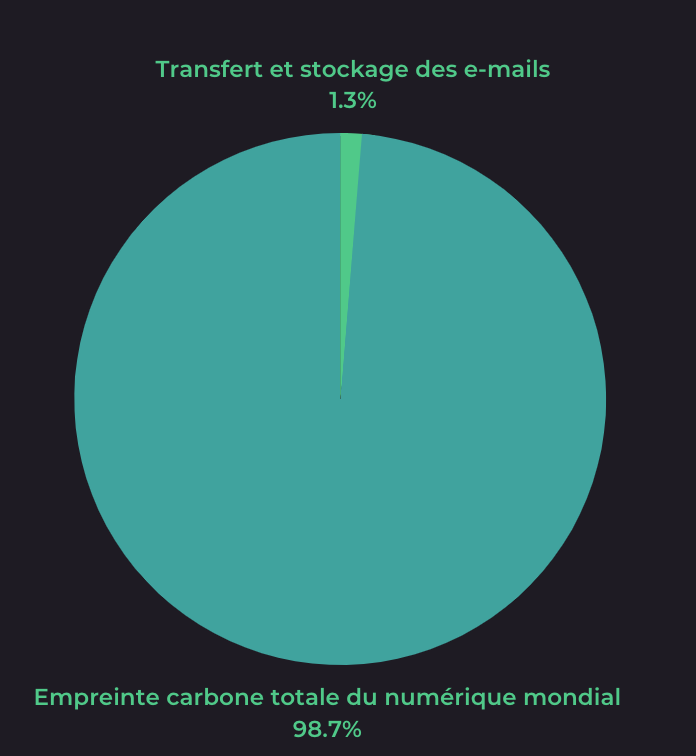
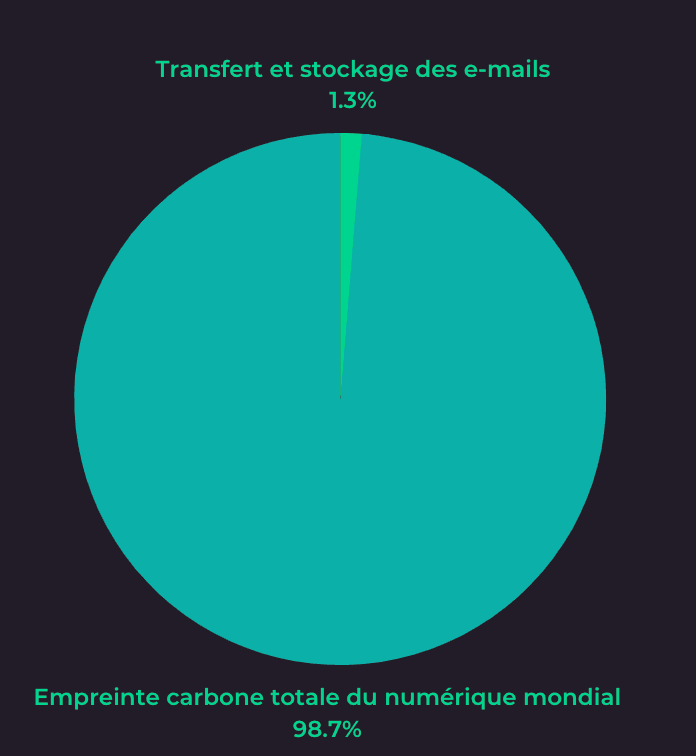
feat: reduce some image disk space (reduce color palette, reduce dimension)

diff --git a/_drafts/2022-11-09-signature-mail.md b/_drafts/2022-11-09-signature-mail.md
@@ -101,7 +101,7 @@ L’e-mail est également un excellent exemple de l'effet de rebond, dans lequel
 
 D’ailleurs selon [Science Focus](https://www.sciencefocus.com/planet-earth/the-thought-experiment-what-is-the-carbon-footprint-of-an-email/#:~:text=Sending%2065%20emails%20is%20roughly,emails%20they%20send%20and%20receive.&text=Globally%2C%20the%20world), l'envoi d'un e-mail utilise environ 1,7 % de l'énergie nécessaire pour livrer une lettre papier, ce qui prouve que le courrier électronique est certainement une option plus écologique que le courrier postal. Étant donné que seulement 5 % du réseau électrique mondial provient de sources renouvelables, cela signifie que la plupart de nos courriels sont alimentés par des combustibles fossiles.
 
-![Empreinte carbonne : lettre vs email vs sms ](/images/poids-email/lettre-email-sms.jpg)
+![Empreinte carbonne : lettre vs email vs sms ](/images/poids-email/lettre-email-sms.png)
   
 En novembre dernier, nous vous avions [suggéré quelques publications de référence sur le numérique responsable](https://blog.iroco.co/publications-reference-numerique-responsable/) comme la [synthèse de l’étude de GreenIT](https://www.greenit.fr/wp-content/uploads/2019/10/2019-10-GREENIT-etude_EENM-synthese-accessible.VF_.pdf) sur l’empreinte environnementale des technologies numériques mondiales, qui mettait en évidence les constats suivants : 34 milliards d’équipements peuplent le monde en 2019 pour 4,1 milliards d’utilisateurs, soit 8 équipements par utilisateur.
 

diff --git a/_drafts/2022-10-26-impact-mail.md b/_drafts/2022-10-26-impact-mail.md
@@ -54,7 +54,7 @@ L’e-mail est également un excellent exemple de l'**effet de rebond**, dans le
 
 D’ailleurs selon [Science Focus](https://www.sciencefocus.com/planet-earth/the-thought-experiment-what-is-the-carbon-footprint-of-an-email/#:~:text=Sending%2065%20emails%20is%20roughly,emails%20they%20send%20and%20receive.&text=Globally%2C%20the%20world), l'envoi d'un e-mail utilise environ 1,7 % de l'énergie nécessaire pour livrer une lettre papier, ce qui prouve que **le courrier électronique est certainement une option plus écologique que le courrier postal**. Étant donné que seulement 5 % du réseau électrique mondial provient de sources renouvelables, cela signifie que **la plupart de nos courriels sont alimentés par des combustibles fossiles.**
 
-![Empreinte carbonne : lettre vs email vs sms ](/images/poids-email/lettre-email-sms.jpg)
+![Empreinte carbonne : lettre vs email vs sms ](/images/poids-email/lettre-email-sms.png)
 
 D’après le [rapport de suivi des centres de données et des réseaux de transmission de données](https://www.iea.org/reports/data-centres-and-data-transmission-networks)(numérisation), la consommation mondiale d’électricité dans **les data centers en 2021 représenterait entre 220-320 TWh**, soit environ 0,9-1,3% de la demande finale mondiale d’électricité (sans prendre en compte l’exploitation minière de crypto-monnaie, qui était de 100-140 TWh en 2021). 
 
